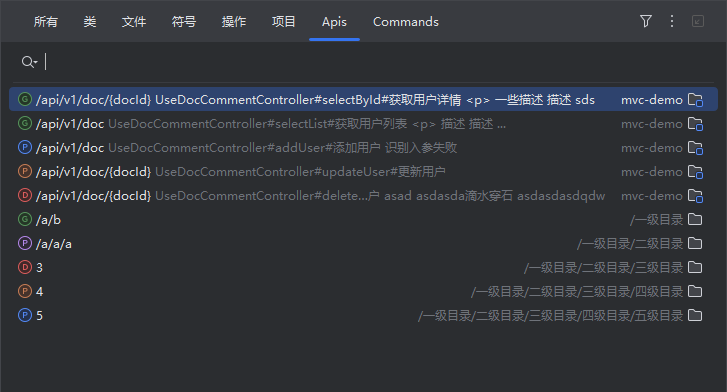
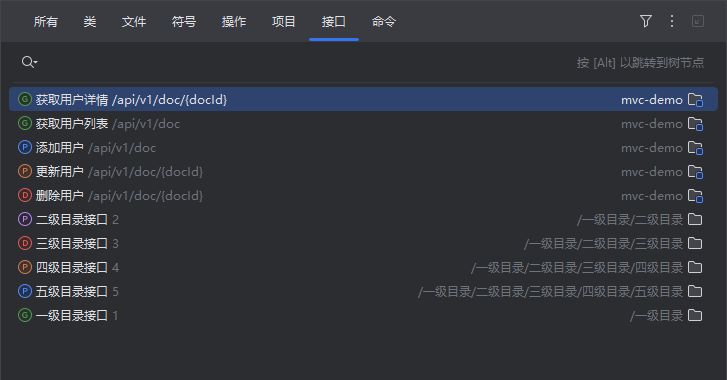
update doc

diff --git a/doc/zh_CN/快速入门/5.0升级指南.md b/doc/zh_CN/快速入门/5.0升级指南.md
@@ -2,7 +2,7 @@
 
 ## 一、概述
 
-主题：重构+体验
+主题：重构 + 体验
 
 支持从`4.x`版本直接升级，数据完全兼容，IDE支持最低版本为`2021.3`。
 
@@ -11,21 +11,23 @@
 ### 1、重构优化
 
 - 多项目打开方式重构：每个项目的接口相互隔离展示，不再放于同一棵树中。
-- 工具栏按钮：功能更集中，默认使用内置图标，可自行安装三方主题进行美化。
 - 接口树：
   - 支持无限层级，目录层级以`/`分割。扫描接口默认为`module`和`controller`2级，可设置不展示`module`。
-  - 默认展示接口名称，同步"随处搜索"中的展示，可切换为`url`方式。
+  - 树节点支持同时展示名称和 URL，同步"随处搜索"中的展示。
   - 取消单击事件，双击事件可设置为跳转源码和显示请求内容。
   - 复制URL调整为复制完整的URL，自动从当前选中的环境变量中读取`baseUrl`拼接。
-- 强化请求标签：无数量限制，通过标题右键菜单操作，可跳转到源码和接口树节点。
-- 请求参数保存/展示按钮调整为悬浮按钮，更直观。
-- 请求参数编辑新增环境变量选择按钮，位置同上，支持选择内置变量。
+- 请求客户端
+  - 强化请求标签：无数量限制，通过标题右键菜单操作，可跳转到源码和接口树节点。
+  - 请求参数编辑新增环境变量选择按钮，位置同上，支持选择内置变量。
+  - 编辑器支持自动补全环境变量、请求头及特殊操作（选择上传文件）
+  - 支持切换文档类型，可视化设置标签，展示响应状态
+  - HTTP 请求支持设置全局 User-Agent（在 Registry 中设置）
+- 优化 Toolbar：增加分屏、浮动模式、双击模式等设置，移除扫描框架过滤器
 - 导入导出接口重构，不再支持原有剪贴板方式。
-- UI设置中的大部分配置迁移到 `ToolWindow` 右键菜单中。
 - 工具箱展示方式由弹窗改为编辑器tab。
 - 国际化优先使用内置的文案，建议搭配官方的语言插件使用。
-- 扩展API优化：接入更简单方便。
-
+- 随处搜索支持标记过滤
+- 重构扫描接口设置，合并原有的接口过滤设置
 
 ### 2、新增接口标记管理
 
@@ -55,7 +57,7 @@
 
 ### 5、新增运行时环境变量管理
 
-- 支持Java和Golang，启动应用时自动设置到应用的环境变量中
+- 支持 Java 和 Golang，启动应用时自动设置到应用的环境变量中
 - 在设置中管理环境变量，可导入导出
 - 文档: [运行参数管理](../核心功能/运行参数管理.md)
 
@@ -67,7 +69,7 @@
 
 ![img.png](images/replacerule.png)
 
-### 7、ToolWindow菜单说明
+### 7、视图设置说明
 
 ![img.png](images/toolwindowanction.png)
 

diff --git a/doc/zh_CN/核心功能/环境变量.md b/doc/zh_CN/核心功能/环境变量.md
@@ -3,9 +3,9 @@
 ## 概述
 
 - 环境变量表示提前配置的一组或多组变量，包括 `字面量变量`、`直接引用变量`、`内置函数变量` 和 `脚本变量`。
-- 可用于URL、Config、Headers、Params、Body和请求脚本等。
+- 可用于 URL、Config、Headers、Params、Body 和请求脚本等。
 - 通过占位符方式来引用环境变量。
-- 每个项目的配置独立（Project级别），支持导入导出。
+- 每个项目的配置独立（Project 级别），支持导入导出。
 
 ![3.x新版本](images/100504719258471.png)
 
@@ -19,7 +19,7 @@
 
 1. 点击 `Add`，输入唯一的环境变量组名。建议使用简短名称，如 `DEV`、`FAT`、`UAT`、`PRE`、`PRO`。
 2. 在当前组下的列表中增加/删除/移动变量键值对，可勾选是否启用。
-3. 默认会创建 `baseUrl: http://localhost:8080`，适用于HTTP协议接口，用于替换**Config Tab**中的 `{{baseUrl}}`。
+3. 默认会创建 `baseUrl: http://localhost:8080`，适用于HTTP协议接口，用于替换 **Config Tab** 中的 `{{baseUrl}}`。
 4. **VALUE**为字符串，可使用内置函数变量和脚本变量，参见下文说明。
 
 ![](images/554531515252516.png)
@@ -52,7 +52,7 @@
    - `{{$timestamp/3}}` 当前时间戳，单位：秒(s)
    - `{{$uuid}}` 生成UUID，36位，格式：xxxxxxxx-xxxx-xxxx-xxxx-xxxxxxxxxxxx
    - `{{$uuid-}}` 生成UUID，32位，无分隔符 -
-- 脚本变量：点击`Script Variable`，在弹出框中编辑脚本变量。目前只支持Java语言，编写规则参考注释，无第三方库支持。使用方式：`{{$methodName$}}`
+- 脚本函数变量：点击`Script Variable`，在弹出框中编辑脚本函数变量。目前支持 Java 和 Groovy 语言，编写规则参考注释，无第三方库支持。使用方式：`{{$methodName$}}`
 
 ```java
 public class RestKitScript {
@@ -70,9 +70,15 @@ public class RestKitScript {
 }
 ```
 
-## 使用
+## 在 Request client 编辑器中使用
 
-在Request client编辑器中点击悬浮按钮的魔法棒🪄，选择待设置参数，然后在弹窗中**双击**选择变量值：
+- 自动补全（5.2.0开始）：输入变量名称，弹出匹配的补全提示。当输入`.`时查看所有提示。暂不支持输入`{{`和`{{$`触发提示。
+
+![img.png](images/1727199964795.png)
+
+![img.png](images/1727199730394.png)
+
+- 使用魔法棒🪄按钮，先选择待设置参数，然后在弹窗中**双击**选择变量值：
 
 ![img.png](images/1724595702269.png)
 

diff --git a/doc/zh_CN/核心功能/管理API.md b/doc/zh_CN/核心功能/管理API.md
@@ -1,10 +1,10 @@
 ## 概述
 API接口可分为多个类型：
 
-- 按协议：http接口、dubbo接口、k8s自定义接口
+- 按协议：HTTP 接口、dubbo 接口、k8s 自定义接口
 - 按存储方式;：扫描获取、从数据源获取（Sqlite、MySQL等）
 
-以上两种类型通常结合起来使用，如支持扫描springmvc的http接口。
+以上两种类型通常结合起来使用，如支持扫描 springmvc 的 HTTP 接口。
 
 ## 设置
 如图显示支持的扫描类型，勾选即启用。存储类不展示，默认启用。
@@ -12,7 +12,7 @@ API接口可分为多个类型：
 ![](../快速入门/images/1691836592697.png)
 
 ## 展示
-点击toolbar的刷新按钮，将展示接口。
+点击 toolbar 的刷新按钮，将展示接口。
 
 ## 同步API
 将接口列表一键同步到指定的数据源。
@@ -21,7 +21,7 @@ API接口可分为多个类型：
 
 ## 添加和更新
 
-在Request Client的任意编辑器区域右键，点击【Save Api】。已存在api时会提示。操作完成后执行结果将更新到数据源。
+在 Request Client 的任意编辑器区域右键，点击【Save Api】。已存在 api 时会提示。操作完成后执行结果将更新到数据源。
 
 ![](images/286551721234228.png)
 

diff --git a/doc/CHANGELOG.md b/doc/CHANGELOG.md
@@ -1,5 +1,24 @@
 # CHANGELOG
 
+## 5.2.0
+
+- New: API searchEvery supports tag filter.
+- New: Api nodes support displaying both name and URL. Change it in the Tool Window settings menu.
+- New: HTTP requests support setting User-Agent header (set in the Registry).
+- Optimize Toolbar: add split-screen, floating mode, double-click mode, remove scanning framework filter.
+- Refactoring request panel: auto-completion of environment variables and request headers, visualize setting tab, show response state.
+- Refactoring scanning api setting and merge api filtering setting.
+- Fixed known issues.
+
+
+- 新增: 随处搜索支持标记过滤
+- 新增：树节点支持同时展示名称和 URL，在 Tool Window 设置菜单中选择展示方式
+- 新增：HTTP 请求支持设置全局 User-Agent（在 Registry 中设置）
+- 优化Toolbar：增加分屏、浮动模式、双击模式等设置，移除扫描框架过滤器
+- 重构请求面板：编辑器支持自动补全环境变量和请求头，支持切换文档类型，可视化设置标签，展示响应状态
+- 重构扫描接口设置，合并原有的接口过滤设置
+- 修复已知问题
+
 ## 5.1.0
 
 - Fixed known issues.

diff --git a/doc/zh_CN/核心功能/参数库.md b/doc/zh_CN/核心功能/参数库.md
@@ -2,9 +2,10 @@
 
 ## 概述
 
-- 参数库是用于保存请求参数的仓库，支持保存Headers、Params和Body等参数。
+- 参数库是用于保存请求参数的仓库，支持保存 Headers、Params 和 Body 等参数。
 - 参数库存在多个，**每个参数库和URL、method 唯一绑定**。
 - 显示在对应编辑器中的悬浮按钮，分别对应 **保存** 和 **选择** 参数。
+- 局部快捷键：从`2.1.1`开始支持，**光标需在对应的编辑区**。保存参数：`control S`，查看参数列表：`control shift S`
 
 ![](images/1724581379464.png)
 
@@ -42,6 +43,3 @@
 ## 清空所有参数
 
 通常不需要操作，仅非订阅用户在当前项目中找到文件 `{user.home}/.restkit/{projectName}/parameter-library.json`，删除即可。
-
-## 其他说明
-从 `5.0.0`开始，参数库按钮位置修改为悬浮按钮处，且删除原来的快捷键。

diff --git a/doc/zh_CN/FAQ.md b/doc/zh_CN/FAQ.md
@@ -19,7 +19,7 @@
 插件本身不支持，但是你可以利用插件提供的**前置脚本**实现。在前置脚本中拦截到参数，自行替换。
 
 ## 4、能否自动识别项目的端口和上下文路径？
-从`3.0.0`开始支持识别当前springboot项目中的配置文件。如果未识别到，新建环境时会自动生成【`baseUrl` `http://localhost:8080`】, 只需要改一下url即可。
+从`3.0.0`开始支持识别当前 springboot 项目中的配置文件。如果未识别到，新建环境时会自动生成【`baseUrl` `http://localhost:8080`】, 只需要改一下url即可。
 
 ## 5、是否支持https请求
 支持。之前https支持单向认证，从`2.0.8`开始支持双向认证。详见[HTTPS请求](快速入门/HTTPS请求.md)。

diff --git a/doc/zh_CN/核心功能/搜索URL.md b/doc/zh_CN/核心功能/搜索URL.md
@@ -14,13 +14,13 @@
 
 ![img.png](images/1724581954179.png)
 
-`3.4.0`开始默认不匹配description部分，需手动勾选匹配
+`3.4.0`开始默认不匹配 description 部分，需手动勾选匹配
 
 ![img.png](images/1724582042342.png)
 
-可在设置中设置显示module/分组名称。
+可在设置中设置显示 module /分组名称。
 
-在search everywhere中选中具体的URL后，按 `Option` 或 `Alt` 可跳转到api tree中对应的列表项。
+在 search everywhere 中选中具体的 URL 后，按 `Option` 或 `Alt` 可跳转到 api tree 中对应的列表项。
 
 ## Service tree支持idea自身的输入搜索
 

diff --git a/doc/zh_CN/快速入门/HTTP上传_下载文件.md b/doc/zh_CN/快速入门/HTTP上传_下载文件.md
@@ -6,7 +6,13 @@
 ## 二、上传文件
 支持`org.springframework.web.multipart.MultipartFile`参数识别。
 
-在 **Params编辑窗口** 中，文件参数表现为：`paramName: file@[filepath]`。选择参数上传，步骤如下图：
+在 **Params编辑窗口** 中，文件参数表现为：`paramName: file@[filepath]`。
+
+- 通过自动补全上传
+
+![img.png](images/1727200568948.png)
+
+- 选择参数上传，步骤如下图：
 
 ![img.png](images/1724578236844.png)
 

diff --git a/doc/zh_CN/核心功能/API文档注释识别规则.md b/doc/zh_CN/核心功能/API文档注释识别规则.md
@@ -84,12 +84,12 @@ public R<Map<String, User>> test();
 
 ## api、field ignore
 
-如果类、方法、字段的文档注释存在`@ignored`时，则忽略对应的接口、字段。如：
+如果类、方法、字段的文档注释存在`@ignore`时，则忽略对应的接口、字段。如：
 
 ```java
 /**
  * 忽略类、方法、字段、递归字段等
  *
- * @ignored
+ * @ignore
  */
 ```

diff --git a/doc/zh_CN/快速入门/其他使用.md b/doc/zh_CN/快速入门/其他使用.md
@@ -15,7 +15,7 @@ _如果启用了Line marker图标跳转，则不会显示此跳转方式_
 ![](images/444740215258579.png)
 
 ## Java识别参数过滤
-找到设置【Param Filter】，添加需要过滤的类名或包含的注解名称
+找到设置【API Setting】，添加需要过滤的类名或包含的注解名称
 
 ![](images/426160515255873.png)
 

diff --git a/doc/zh_CN/核心功能/命令中心.md b/doc/zh_CN/核心功能/命令中心.md
@@ -83,7 +83,3 @@
 ### 排序
 
 选中命令后，根据`向上`和`向下`箭头移动命令位置即可控制“随处搜索”中的命令顺序。置顶的命令不受此操作控制顺序。
-
-### 其他
-
-提供的示例命令中，关键字为`ts`的这条命令如果提示执行超时，请删除再重新添加一条一样的。
